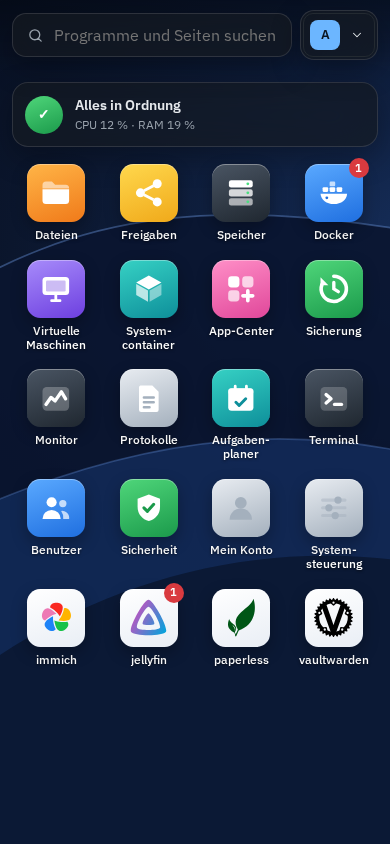
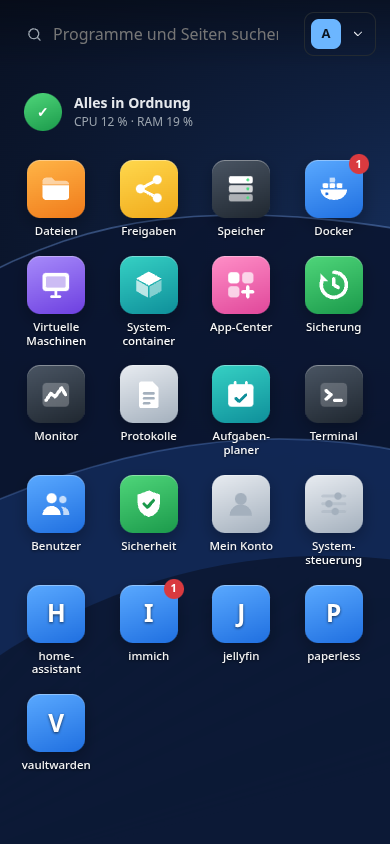
README neu im Apple-Stil: bewegtes Titelbild, Überschriften als Bilder, Bild/Text im Wechsel, Funktionen eingeklappt; Bilder vom Stand 0.70

diff --git a/README.md b/README.md
@@ -1,50 +1,89 @@
-<p align="center">
-  <picture>
-    <source media="(prefers-color-scheme: dark)" srcset="docs/brand/titanos-wordmark-dark-bg.svg">
-    <img src="docs/brand/titanos-wordmark-light-bg.svg" alt="TitanOS" width="420">
-  </picture>
-</p>
-
-<p align="center"><strong>Deine Daten. Deine Anwendungen. Dein Arbeitsplatz.</strong><br>Ein NAS-Betriebssystem für den eigenen Server – vom USB-Stick gestartet, im RAM betrieben, im Browser verwaltet.</p>
+<p align="center"><img src="docs/readme/hero.svg" alt="TitanOS – Deine Daten. Deine Apps. Dein Server." width="100%"></p>
 
 <p align="center">
-  <a href="https://github.com/ra5on/TitanOS/releases/latest"><img src="docs/brand/download-stable.svg" alt="Aktuelle TitanOS-Version herunterladen" width="350" height="54"></a><br>
-  <sub>Stick-ZIP, Prüfsummen und Signaturen der jeweils aktuellen Stable-Version.</sub>
+  <a href="https://github.com/ra5on/TitanOS/releases/latest"><img src="docs/brand/download-stable.svg" alt="Aktuelle TitanOS-Version herunterladen" width="350" height="54"></a>
 </p>
 
 <p align="center">
   <a href="#installation">Installation</a> ·
-  <a href="#funktionen">Alle Funktionen</a> ·
+  <a href="#funktionen">Funktionen</a> ·
   <a href="#dokumentation">Dokumentation</a> ·
   <a href="LICENSE.md">Fair Source</a>
 </p>
 
-[![TitanOS im Desktop-Modus: Arbeitsplatz mit Programmsymbolen, Docker-Apps, Widgets, Leisten oben und Dock](docs/screenshots/current/arbeitsplatz.png)](docs/screenshots/current/arbeitsplatz.png)
+<br>
 
-## Ein Server für Dateien, Apps und virtuelle Maschinen
+<p align="center">
+  <picture>
+    <source media="(prefers-color-scheme: dark)" srcset="docs/readme/h-intro-dark.svg">
+    <img src="docs/readme/h-intro-light.svg" alt="Sieht aus wie ein Desktop. Ist ein ganzer Server." width="760">
+  </picture>
+</p>
 
-TitanOS macht aus einem x86-64-PC einen zentralen Speicher und Anwendungsserver. Du verwaltest RAID-Volumes, Freigaben, Docker-Apps, LXC-Systemcontainer, virtuelle Maschinen und Sicherungen in einer Weboberfläche, die wie ein Desktop arbeitet: jeder Bereich ist ein Programm im eigenen Fenster. Dazu kommen ein Dateimanager, Hardware-Monitoring, Home Assistant, ein KI-Agent mit deinem eigenen Ollama und ein optionaler MCP-Server für KI-Clients wie Claude.
+<p align="center">Fenster, Dock, Arbeitsplatz. Im Browser, auf jedem Gerät.<br>Startet vom USB-Stick. Läuft komplett im Arbeitsspeicher.</p>
 
-Den Arbeitsplatz richtest du dir selbst ein: welche Programme auf dem Desktop und im Dock liegen, welche Widgets du siehst, welcher Hintergrund und wie durchscheinend Fenster und Leisten sind. Docker-Apps wie Immich oder Jellyfin öffnen in der Fernansicht direkt im Fenster, auch von unterwegs über Cloudflare oder VPN. Jede Person hat ihren eigenen Arbeitsplatz; am Handy wird daraus ein App-Raster.
+[![TitanOS: Arbeitsplatz mit Programmen, Docker-Apps, Widgets, Menüleiste und Dock](docs/screenshots/current/arbeitsplatz.png)](docs/screenshots/current/arbeitsplatz.png)
 
-Das System basiert auf **Debian 13**, startet per UEFI (auch 32-Bit-UEFI) oder Legacy-BIOS von einem USB-Stick und läuft aus dem Arbeitsspeicher. Nutzdaten, Container und VM-Abbilder liegen auf separaten Daten-Volumes. Die Konfiguration bleibt auf dem Stick; automatische Konfigurationssicherungen helfen beim Austausch eines ausgefallenen Sticks.
+<table>
+<tr>
+<td width="58%"><a href="docs/screenshots/current/anmeldeseite.png"><img src="docs/screenshots/current/anmeldeseite.png" alt="Anmeldung mit bewegtem Nordlicht und Kontobildern"></a></td>
+<td><sub>ANMELDUNG</sub><h3>Nordlicht inklusive.</h3>Ein bewegter Himmel. Dein Bild im Kreis. Ein Feld fürs Passwort – und du bist da.<br><br><sub>Passkey · Zwei-Faktor · Bewegung abschaltbar</sub></td>
+</tr>
+<tr>
+<td><sub>DATEIEN</sub><h3>Vertraut vom ersten Klick.</h3>Adresszeile, Befehlsleiste, Mehrfachauswahl. Suche bis in den Inhalt deiner Dokumente.<br><br><sub>SMB · NFS · WebDAV · USB</sub></td>
+<td width="58%"><a href="docs/screenshots/current/dateien.png"><img src="docs/screenshots/current/dateien.png" alt="Dateimanager mit Adresszeile, Befehlsleiste und Statuszeile"></a></td>
+</tr>
+<tr>
+<td width="58%"><a href="docs/screenshots/current/docker.png"><img src="docs/screenshots/current/docker.png" alt="Docker mit Übersicht und Apps"></a></td>
+<td><sub>APPS</sub><h3>Installiert. Läuft.</h3>Immich, Jellyfin, Home Assistant und mehr aus dem App-Store. Jede App im eigenen Fenster. Auch unterwegs.<br><br><sub>Compose · Updates · Startreihenfolge</sub></td>
+</tr>
+<tr>
+<td><sub>VIRTUELLE MASCHINEN</sub><h3>Ein Rechner im Rechner.</h3>Windows, Linux, Home Assistant OS. Bildschirm im Browser, Snapshots, durchgereichte Grafikkarte.<br><br><sub>KVM/QEMU · GPU · USB</sub></td>
+<td width="58%"><a href="docs/screenshots/current/vms.png"><img src="docs/screenshots/current/vms.png" alt="Virtuelle Maschinen"></a></td>
+</tr>
+</table>
 
-Die Bedienidee ist von Unraid inspiriert; TitanOS setzt auf klassisches Linux-Software-RAID und ist ein eigenständiges Projekt ohne Verbindung zu Lime Technology.
+<br>
 
-**Die Bilder zeigen die echte Weboberfläche mit isolierten Beispieldaten.** Es sind keine Messungen eines produktiven NAS und keine Design-Mockups; das Bild innerhalb der Fernansicht ist ein nachgebildeter Teststrom, keine echte App. Ein Klick öffnet die volle Auflösung. [Aufnahmestand und Erstellung](docs/screenshots/README.md).
+<p align="center">
+  <picture>
+    <source media="(prefers-color-scheme: dark)" srcset="docs/readme/h-alles-dark.svg">
+    <img src="docs/readme/h-alles-light.svg" alt="Alles drin. Auch das, was man nicht sieht." width="760">
+  </picture>
+</p>
+
+<table>
+<tr>
+<td width="33%"><b>Speicher</b><br>RAID 0, 1, 5, 6, 10. Btrfs-Spiegel. SSD-Cache. Verschlüsselung.</td>
+<td width="33%"><b>Sicherheit</b><br>Signierte Updates mit Rückfall. Firewall. Zwei-Faktor. Passkeys.</td>
+<td width="33%"><b>KI-Agent</b><br>Dein eigenes Ollama. Feste Rechte. MCP für Claude.</td>
+</tr>
+<tr>
+<td><b>Sicherung</b><br>Versioniert. Auf USB, SMB oder ein zweites NAS. Mit Prüfung.</td>
+<td><b>Fernzugriff</b><br>Tailscale, NetBird, WireGuard. Let's Encrypt.</td>
+<td><b>Handy</b><br>App-Raster. Jedes Programm im Vollbild.</td>
+</tr>
+</table>
+
+<p align="center"><sub>Alle Bilder zeigen die echte Oberfläche mit Beispieldaten. Keine Mockups. <a href="docs/screenshots/README.md">Aufnahmestand</a>.</sub></p>
+
+TitanOS basiert auf **Debian 13** und startet per UEFI, 32-Bit-UEFI oder Legacy-BIOS von einem USB-Stick. Daten, Apps und VMs liegen auf eigenen Volumes, die Konfiguration bleibt auf dem Stick. Die Bedienidee ist von Unraid inspiriert. TitanOS setzt auf klassisches Linux-Software-RAID und ist ein eigenständiges Projekt ohne Verbindung zu Lime Technology.
 
 ## Funktionen
 
-### Arbeitsplatz, Fenster und Dock
+Alles im Einzelnen – zum Aufklappen.
+
+<details>
+<summary><b>Arbeitsplatz, Fenster und Dock</b></summary>
 
 - **Jeder Bereich ein Programm:** Dateien, Freigaben, Speicher, Docker, Virtuelle Maschinen, Systemcontainer, App-Center, Sicherung, KI-Agent, Monitor, Protokolle, Aufgabenplaner, Terminal, Benutzer, Sicherheit, Mein Konto und Systemsteuerung öffnen als eigene Fenster. Jedes Fenster hat seine eigene, einklappbare Seitenleiste mit den Seiten und Einstellungen des Programms, die Titelleiste nennt Programm und Seite, die Aktionen stehen in einer Werkzeugleiste darunter.
 - **Fenster wie am PC:** frei verschieben, an allen Kanten und Ecken vergrößern, an den Rand ziehen für die halbe Seite, nach oben für Vollbild, in die Ecke für ein Viertel – mit Vorschau. Knöpfe rechts: in eigenem Tab öffnen, minimieren, maximieren, schließen. Fensterwechsler und Tastenkürzel (Alt + Q, Alt + Pfeile, Alt + W, Strg + Leertaste). Die Browser-Adresse zeigt das Fenster vorn, Lesezeichen öffnen das passende Programm. Fenster-Anordnungen lassen sich speichern.
 - **Arbeitsplatz:** Programmsymbole frei auf einem unsichtbaren Raster, „Automatisch anordnen“, drei Größen, Ordner, Abzeichen für Updates, Warnungen und „läuft/gestoppt“. Die Symbole behalten ihre Plätze, auch wenn das Browserfenster kleiner und wieder größer wird. Rechtsklick-Menüs auf Symbole, Arbeitsplatz, Widgets, Leisten und Dock.
 - **Widgets** frei platzierbar und in der Größe änderbar: Zustand, CPU/RAM, Netzwerk, Volumes, Docker-Apps, VMs, Sicherungen, Temperaturen, Uhr, Home Assistant, Aufgaben; einzeln entfernen oder alle ausblenden. Sie lesen nur, was die Oberfläche ohnehin abfragt, und wecken keine Platten.
 - **Hauptmenü** oben links mit Suche über Programme und ihre Seiten, Filtern (TitanOS, Docker-Apps, VMs, Zuletzt) und Konto, Systemsteuerung, Sperren, Ein/Aus. Programme aus dem Menü auf den Arbeitsplatz oder ins Dock ziehen.
-- **Dock** (ab Werk an): angeheftete Programme und offene Fenster, Vergrößern beim Überfahren, umsortieren per Ziehen; Größe, Deckkraft, Vergrößern und Position (unten, links, rechts) im Rechtsklick oder unter Systemsteuerung › Darstellung › Dock mit Vorschau.
+- **Dock** (ab Werk an): angeheftete Programme und offene Fenster, Vergrößern beim Überfahren, umsortieren per Ziehen; Größe, Deckkraft, Vergrößern, Position (unten, links, rechts) und Umrandung im Rechtsklick oder unter Systemsteuerung › Darstellung › Dock mit Vorschau.
 - **Leisten oben:** offene Fenster, im Cluster der Umschalter zwischen den Nodes, Auslastung, Aufgaben, Mitteilungs-Center und Konto; Größe Klein/Mittel/Groß.
-- **Sperrbildschirm und Anmeldung:** Sperren im Menü oder automatisch nach einstellbarer Zeit; Entsperren mit Passwort (und 2FA) oder Passkey. Die Anmeldeseite zeigt Uhr und Glaskarte über dem Hintergrund des Arbeitsplatzes.
+- **Sperrbildschirm und Anmeldung:** Sperren im Menü oder automatisch nach einstellbarer Zeit; Entsperren mit Passwort (und 2FA) oder Passkey. Die Anmeldeseite zeigt das bewegte Nordlicht, Kontobilder (eigenes Foto oder mitgeliefertes Bild) und auf Wunsch einen Übergang in den Arbeitsplatz.
 - **KI-Agent** als eigenes Programm mit Chatfenster und eigenen Einstellungen, dazu eine Helfer-Blase, deren Frage mit dem Fenster vorn beginnt.
 - **Dateien hineinziehen:** Dateien vom PC auf den Arbeitsplatz ziehen öffnet „Dateien“ und lädt sie in den offenen Ordner hoch.
 - **Am Handy:** Startbildschirm mit Suche und App-Raster; jedes Programm und jede Docker-App öffnet im Vollbild mit „Zurück“. Ränder für Notch und Home-Leiste, keine vergrößernden Eingabefelder in Safari.
@@ -54,7 +93,10 @@ Die Bedienidee ist von Unraid inspiriert; TitanOS setzt auf klassisches Linux-So
 
 [Dock bearbeiten](docs/screenshots/current/dock-bearbeiten.png) · [Beschreibung des Desktop-Modus](docs/DESKTOP.md) · [Sperrbildschirm](docs/SESSION-LOCK.md)
 
-### Speicher und Laufwerke
+</details>
+
+<details>
+<summary><b>Speicher und Laufwerke</b></summary>
 
 - **Klassisches RAID:** mdadm mit RAID 0, 1, 5, 6 und 10; Dateisysteme ext4 und XFS. Volumes anlegen, Zustand und Belegung sehen, Mitglieder ersetzen und Wiederaufbau oder Konsistenzprüfung verfolgen.
 - **Btrfs-Volumes:** eine Platte, Spiegel (RAID 1) oder drei Kopien (RAID1C3), auch aus Platten unterschiedlicher Größe. Platten später hinzufügen oder entfernen und das Profil im laufenden Betrieb ändern. Schreibgeschützte Snapshots, Scrub und Plattenersatz. Fehlt beim Start ein Mitglied, wartet TitanOS 60 Sekunden auf langsam anlaufende Platten, bevor das Volume ohne Redundanz eingebunden und als solches gemeldet wird. Snapshot-Zeitpläne mit Aufbewahrung sowie Wiederherstellung ganzer Snapshots, Ordner oder einzelner Dateien.
@@ -67,7 +109,10 @@ Die Bedienidee ist von Unraid inspiriert; TitanOS setzt auf klassisches Linux-So
 
 [Btrfs](docs/BTRFS.md) · [Übernahme, Erweiterung und Speicheranalyse](docs/WORKFLOWS.md)
 
-### Freigaben und Konten
+</details>
+
+<details>
+<summary><b>Freigaben und Konten</b></summary>
 
 - **SMB:** Rechte je Konto, lesender Gastzugriff, Papierkorb mit Aufbewahrung und Time-Machine-Ziele. **NFS:** getrennt von SMB abschalten, nur lesend oder lesend/schreibend für ausgewählte Clients freigeben.
 - **WebDAV (optional):** Freigaben als Netzlaufwerk über HTTPS, etwa in der Dateien-App des iPhones, im Finder oder im Windows-Explorer, auch von unterwegs. Eigenes WebDAV-Passwort je Konto, dieselben Rechte wie bei SMB. [Einzelheiten](docs/WEBDAV.md).
@@ -76,8 +121,12 @@ Die Bedienidee ist von Unraid inspiriert; TitanOS setzt auf klassisches Linux-So
 - **Besitzer, Administratoren und Benutzer:** das erste Besitzerkonto hat einen frei gewählten Namen. Benutzer sehen ihre freigegebenen Dateien; Systemverwaltung, Docker und VMs bleiben den Verwaltungsrollen vorbehalten.
 - **Anmeldung und Sicherheit:** Passwortschutz gegen Durchprobieren, TOTP mit Wiederherstellungscodes, Übersicht angemeldeter Geräte und Abmelden einzelner oder aller anderen Sitzungen. Konten lassen sich sperren, ohne sie zu löschen; das wirkt auch für SMB, SSH und API-Tokens. [Konten sperren](docs/ACCOUNT-LOCK.md).
 
-### Dateien direkt im Browser verwalten
+</details>
 
+<details>
+<summary><b>Dateien direkt im Browser verwalten</b></summary>
+
+- **Wie der Explorer:** Adresszeile mit Pfad und Suche, Befehlsleiste, die sich bei schmalen Fenstern selbst zusammenschiebt, ein Klick wählt eine Datei, Häkchen erst bei Mehrfachauswahl, Statuszeile mit Auswahl und freiem Platz.
 - **Persönlicher Arbeitsplatz:** Ordnerbaum, benannte und sortierbare Favoriten, Ansichten und Sortierung je Ordner, zwei Ordner nebeneinander und eine Pfadeingabe in den Brotkrumen.
 - **Dateien und Ordner bearbeiten:** erstellen, hochladen, herunterladen, als ZIP laden, kopieren, verschieben, umbenennen und löschen. Ziehen zwischen Ansichten, Übertragungsvorschau und Entscheidungen bei Namenskonflikten.
 - **Von Link herunterladen:** eine HTTP(S)-Adresse, etwa ein ISO-Abbild, lädt das NAS selbst als Hintergrundauftrag in den geöffneten Ordner: optionale SHA-256-Prüfung, Fortsetzen nach Verbindungsabbruch, nie Überschreiben. Benutzerkonten erreichen dabei nur Adressen im Internet.
@@ -93,8 +142,12 @@ Die Bedienidee ist von Unraid inspiriert; TitanOS setzt auf klassisches Linux-So
 
 [Texteditor und USB-Dateisysteme](docs/FILE-EDITOR.md) · [Vorschaubilder und Volltextsuche](docs/FILE-SEARCH.md) · [Partitionseditor](docs/PARTITIONS.md) · [Von Link herunterladen](docs/FILE-DOWNLOADS.md) · [Kopieren und Verschieben](docs/FILE-COPY.md) · [RAM und Uploads](docs/MEMORY.md) · [Lange Windows-SMB-Pfade](docs/WINDOWS-SMB.md)
 
-### Docker und App-Store
+</details>
 
+<details>
+<summary><b>Docker und App-Store</b></summary>
+
+- **Start nach dem Hochfahren:** Apps und VMs starten erst, wenn Volumes und Freigaben bereit sind, auf Wunsch in fester Reihenfolge mit Wartezeit je Eintrag.
 - **Container und Compose-Stacks:** Images und Tags einzeln je Dienst bearbeiten, Store-Vorgaben und Digests erhalten; Start, Stopp, Neustart, Logs und Browserkonsole; CPU, RAM, Ports und geprüfte Updatezustände im Blick. Suche, Filter sowie anpassbare Reihenfolge und Ansicht.
 - **Kompakte Kacheln:** jeder Container als gleich breite Kachel mit App-Symbol, CPU und RAM, so viele nebeneinander wie Platz ist; der farbige Streifen zeigt, ob er läuft. Ein Klick aufs Symbol öffnet das Menü des Containers.
 - **Docker-Apps im Fenster (Fernansicht):** Jede App mit Weboberfläche ist ein eigenes Programm. Ihr Fenster zeigt die App in der Fernansicht: TitanOS öffnet sie auf dem NAS in einem abgeschotteten Browser-Container und überträgt Bild und Ton über die TitanOS-Adresse (WebSocket, H.264/Opus) – im Heimnetz, per VPN, über einen Cloudflare-Tunnel und am Handy. Anmeldungen in den Apps bleiben je Konto und App erhalten; Lautstärke, Qualität (30/60 Bilder je Sekunde), Zwischenablage, Hoch- und Herunterladen im Fenster; GPU-Kodierung per VA-API (Intel/AMD) oder NVENC (NVIDIA-Plugin), sonst Prozessor. Das Abbild der Fernansicht ist eine eigene signierte Release-Datei (Download etwa 320 MB bei der ersten Ansicht). Wer welche App nutzen darf, steht unter Benutzer › Programme. „In eigenem Tab öffnen“ bleibt als Ausweg. [Einzelheiten und Grenzen](docs/FERNANSICHT.md).
@@ -112,7 +165,10 @@ Die Bedienidee ist von Unraid inspiriert; TitanOS setzt auf klassisches Linux-So
 
 [Fernansicht](docs/FERNANSICHT.md) · [App-Fenster, Rechte und Zertifizierungsstelle](docs/APP-WINDOWS.md) · [App-Links](docs/APP-LINKS.md) · [HTTPS-Namen für Apps](docs/APP-PROXY.md) · [Immich und Ollama-Vorlagen](docs/NATIVE-APPS.md)
 
-### Virtuelle Maschinen
+</details>
+
+<details>
+<summary><b>Virtuelle Maschinen</b></summary>
 
 - **KVM/QEMU und libvirt:** VMs anlegen, starten, sauber herunterfahren und automatisch starten. UEFI als Standard, optional Legacy-BIOS für passende Gäste; Windows 11 mit TPM 2.0 und Secure Boot im Gast.
 - **Ressourcen und Datenträger:** CPU-Kerne zuweisen oder reservieren, qcow2/raw und vorhandene Abbilder nutzen, physische Platten einbinden und ausgeschaltete VMs mit neuen Kennungen klonen.
@@ -128,13 +184,19 @@ Die Bedienidee ist von Unraid inspiriert; TitanOS setzt auf klassisches Linux-So
 
 Die VM-Einrichtung zeigt kompakte Kacheln mit einer gemeinsamen Zusammenfassung. Die Heimnetz-Bridge `br0` wird bei der Ersteinrichtung automatisch vorbereitet und nach Verbindungsbestätigung dauerhaft übernommen; bestehende NAS aktivieren sie direkt aus der VM-Einrichtung.
 
-### LXC-Systemcontainer
+</details>
+
+<details>
+<summary><b>LXC-Systemcontainer</b></summary>
 
 - **Ganze Linux-Systeme ohne VM:** Container aus den Abbildern von images.linuxcontainers.org (Debian, Ubuntu, Alpine und weitere) anlegen, starten, herunterfahren und automatisch starten. Das Root-Dateisystem liegt auf einem Daten-Volume.
 - **Sicher voreingestellt:** unprivilegiert mit eigenen IDs; privilegierte Container nur ausdrücklich und mit Warnung. CPU- und RAM-Grenzen, Netzwerk an den Bridges des NAS mit fester MAC-Adresse, NAS-Ordner wahlweise nur lesend.
 - **Konsole und Snapshots:** Shell und Textkonsole im Terminal-Fenster; auf Btrfs-Volumes Snapshots anlegen und zurücksetzen. [Einzelheiten und Grenzen](docs/LXC.md).
 
-### Sicherungen und Wiederherstellung
+</details>
+
+<details>
+<summary><b>Sicherungen und Wiederherstellung</b></summary>
 
 - **Versionierte Backups mit restic:** Freigaben, Volumes oder einzelne Ordner verschlüsselt auf ein anderes Volume, ein USB-Laufwerk, eine SMB-Freigabe, per SFTP, zu S3 oder zu einem restic-REST-Server sichern. Zeitpläne (auch n-ter Wochentag, mehrere Uhrzeiten), Aufbewahrung als eine Zahl oder „bis das Ziel voll ist“, Zielprüfung und Fortschritt.
 - **Wiederherstellung prüfen:** Archivprüfungen und echte Wiederherstellungsproben; ganze Stände oder einzelne Dateien als neue Kopie in einen eigenen Ordner zurückholen.
@@ -146,7 +208,10 @@ Die VM-Einrichtung zeigt kompakte Kacheln mit einer gemeinsamen Zusammenfassung.
 
 [Backup- und Wiederherstellungsabläufe](docs/WORKFLOWS.md) · [USB-Kopie](docs/USB-COPY-BACKUPS.md) · [SMB-Kopie](docs/SMB-COPY-BACKUPS.md)
 
-### Wartung, Monitoring und Diagnose
+</details>
+
+<details>
+<summary><b>Wartung, Monitoring und Diagnose</b></summary>
 
 - **Eigene Skripte:** Aufgabenplaner › Skripte führt eigene Skripte als root aus – per Knopf mit Live-Ausgabe, nach Zeitplan (auch Cron), einmal beim Start nach dem Einbinden der Volumes oder beim Herunterfahren vor dem Beenden der Apps. Sie liegen auf einem Daten-Volume, die letzten zehn Läufe bleiben mit Ausgabe erhalten, fehlgeschlagene automatische Läufe melden sich. Nur für Besitzer/Administratoren, nicht über API-Tokens oder MCP. [Einzelheiten](docs/SCRIPTS.md)
 - **Wartungspläne:** gemeinsame Zeitfenster mit Zeitzone, auf Wunsch alle N Stunden; RAID-Prüfungen, Btrfs-Scrub, SMART-Kurz- und Langtests (beim Anlegen eines Volumes vorausgewählt), Backup-Prüfungen, Wiederherstellungsproben und Snapshot-Aufbewahrung. Abhängigkeiten, optionaler Backup-Vorrang und sichtbare Wartegründe.
@@ -161,7 +226,10 @@ Die VM-Einrichtung zeigt kompakte Kacheln mit einer gemeinsamen Zusammenfassung.
 
 [Monitoring](docs/MONITORING.md) · [Wartung und Aufträge](docs/WORKFLOWS.md) · [RAM-Verwaltung](docs/MEMORY.md)
 
-### GPU, iGPU, NPU und Plugins
+</details>
+
+<details>
+<summary><b>GPU, iGPU, NPU und Plugins</b></summary>
 
 - **Hardware prüfen:** Monitor › Hardware prüfen fasst CPU, RAM, Controller, Netzwerk, Grafik, Sensoren und Treiberstand zusammen, nennt Geräte ohne Treiber mit Grund (etwa „behoben ab Linux 7.3“ und ob der Kernel „Neu“ es schon hat) und speichert auf Wunsch einen anonymisierten Schnappschuss für einen Fehlerbericht.
 - **Stabile Hardwarebasis:** Intel-/AMD-CPU-Microcode für frühes Laden, gezielte Netzwerk-/HBA-Firmware und geprüfte Intel-i915/xe-/NPU- sowie AMD-Grafikmodule und Firmware. Für Intel-Grafik von Skylake bis Tiger/Rocket Lake lässt sich unter Einstellungen › Hardware HuC (Low-Power-Encodierung) bzw. GuC-Submission mit HuC laden; ab Werk gilt der Kernelstandard, wirksam nach einem Neustart, nicht auf echter Gen9–11-Hardware geprüft. [Umfang und Hardware-Prüfgrenzen](docs/HARDWARE-COMPATIBILITY.md).
@@ -175,7 +243,10 @@ Die VM-Einrichtung zeigt kompakte Kacheln mit einer gemeinsamen Zusammenfassung.
 
 [Plugins und Gerätezuordnung](docs/PLUGINS.md) · [NVIDIA](docs/NVIDIA.md) · [Lokaler NVIDIA-Bau](docs/NVIDIA-LOCAL-BUILD.md)
 
-### Home Assistant und MQTT
+</details>
+
+<details>
+<summary><b>Home Assistant und MQTT</b></summary>
 
 - **NAS-Werte per MQTT-Discovery:** System, Volumes/RAID, Laufwerke, Container, Stacks, VMs, Netzwerk, Backups, Wartung, Kapazitätsprognosen und USV sowie GPU, iGPU und NPU.
 - **Gezielt veröffentlichen:** Gruppen und einzelne Geräte auswählen. Stabile Kennungen, Verfügbarkeit, Ablaufzeiten und Bereinigung entfernter Entitäten; keine zusätzlichen SMART-Abfragen zum Aufwecken schlafender Platten.
@@ -186,19 +257,20 @@ Die VM-Einrichtung zeigt kompakte Kacheln mit einer gemeinsamen Zusammenfassung.
 
 [Home-Assistant-Anleitung, Einrichtung und Prüfgrenzen](docs/HOME-ASSISTANT.md)
 
-### API und Automatisierung
+</details>
+
+<details>
+<summary><b>API und Automatisierung</b></summary>
 
 - **Persönliche API-Zugänge:** benannte, widerrufbare Tokens mit bewusst gewählten Bereichen und aktuellen Konto-/Share-Rechten. Standard nur lesend, Geheimnis einmalig sichtbar, ausschließlich sein Hash wird gespeichert.
 - **OpenAPI und CLI:** dokumentierter API-Vertrag und statisches `titanosctl` für Status, Dateien sowie erlaubte Docker-/VM-Aktionen. [Verwendung](docs/PUBLIC-API.md).
 - **KI-Agent (optional, ab Werk aus):** Aufträge in normaler Sprache, die er mit den Werkzeugen von TitanOS in mehreren Schritten erledigt – mit deinem Ollama (z. B. gpt-oss), Denkstufen des Modells, Projekten und Chats, Gedächtnis und Skills, Websuche, Word-Dokumenten, geplanten Aufträgen, Eigeninitiative bei Meldungen und Home Assistant samt Assist. Je Werkzeug, Bereich und Ordner einstellbar: ohne Nachfrage, mit Knopf im Chat oder verboten. Dateien aus deinen Freigaben direkt in den Chat; Oberfläche wie die großen Chat-Apps mit eigenem Menü, im Desktop-Modus als eigenes Programm im Fenster, auf dem Handy als eigene App (auch auf dem Home-Bildschirm); Mitteilungen nur, solange du den Chat nicht schon offen hast; eigener Ordner je Konto in der Freigabe „KI-Agent“ mit Chats, Projekten, mitgeliefertem Wissen und Notizen; Erinnerungen und frei planbare Aufträge (einmalig, Intervalle, Wochentage, Cron) samt Morgenbericht; Spracheingabe über Whisper, Bilder verstehen und Vorlesen; Snapshot vor riskanten Änderungen; Projekte mit anderen Konten teilen; im Cluster nutzt ein Knoten auf Freigabe das Modell des Admin-Knotens. Eigener Auftritt mit Glas und Polarlicht, Wischgesten, Vorschläge je nach Lage, alle Einstellungen je Konto; Eigeninitiative mit nächtlichem Nachdenken über die Chats, Vorschlägen zum Annehmen, Wache, Vorausschau, gelernten Skills, Persönlichkeit und Suchorten – Hintergrundarbeit weckt keine schlafende Platte. [Einzelheiten](docs/AGENT.md)
 - **MCP-Server (optional, ab Werk aus):** Claude Desktop, Claude Code und andere MCP-Clients arbeiten mit den Rechten eines persönlichen Tokens am NAS: Zustand, Speicher, Freigaben, Dateien und Dokumente (Word, Excel, PDF), Docker, VMs, Sicherungen, Firewall-Regeln, Konten, Plugins, Updates, Neustart/Ausschalten, freigegebene Home-Assistant-Geräte und das Handbuch. Verwaltungsaktionen brauchen den Token-Bereich `system:write` (nur Besitzer/Administratoren). Jedes Werkzeug lässt sich einzeln ausschalten; gefährliche und zerstörende Aufrufe sind ab Werk gesperrt und laufen erst nach ausdrücklicher Freischaltung und mit Bestätigung des Clients. Geheimnisse, Passwörter, Konsolen und Netzwerkbestätigung bleiben außen vor; jeder Aufruf steht im Aktivitätsprotokoll. Die eigene MCP-Seite unter Einstellungen zeigt allen Konten Zustand, Endpunkt und Verbindungsanleitung samt Token-Knopf; Schalter, Werkzeuge und letzte Aufrufe sehen nur Besitzer und Administratoren. [Einrichtung](docs/MCP.md).
 
-<p>
-  <a href="docs/screenshots/current/ki-agent-mobil.png"><img src="docs/screenshots/current/ki-agent-mobil.png" alt="KI-Agent auf dem Smartphone als eigene App: Polarlicht hinter Glas, Begrüßung, Projekt-Chips, Vorschläge mit Grund und Eingabefeld" width="260"></a>
-  <a href="docs/screenshots/current/ki-agent-menue-mobil.png"><img src="docs/screenshots/current/ki-agent-menue-mobil.png" alt="Menü des KI-Agenten auf dem Smartphone mit Projekten, angehefteten Chats und „Zurück zu TitanOS“" width="260"></a>
-</p>
+</details>
 
-### Netzwerk, Energie und Systemzugang
+<details>
+<summary><b>Netzwerk, Energie und Systemzugang</b></summary>
 
 - **Netzwerk:** mehrere benannte Netze über Anschlüsse, Bonds und VLANs; IPv4-DHCP/feste Adressen, IPv6-SLAAC/DHCPv6/feste Adressen, DNS und Routen. Bevorzugter Verwaltungszugang, zweiminütiger Probelauf und authentifizierte lokale Wiederherstellung. Router und DHCP bleiben extern.
 - **Tailscale als Plugin:** Fernzugriff, Subnet-Routing und Exit-Node-Betrieb in beiden Rollen; Routen- und DNS-Einstellungen mit Rückfall. Unter dem Tailnet-Namen (`https://<name>.<tailnet>.ts.net`) liefert TitanOS ein gültiges Zertifikat aus, sobald HTTPS im Tailnet an ist (Ein-Klick-Freischaltung aus den Einstellungen). 
@@ -215,17 +287,20 @@ Die VM-Einrichtung zeigt kompakte Kacheln mit einer gemeinsamen Zusammenfassung.
 
 [Netzwerk](docs/NETWORKING.md) · [Firewall](docs/FIREWALL.md) · [Let's Encrypt](docs/LETSENCRYPT.md) · [Dynamisches DNS](docs/DDNS.md) · [WireGuard](docs/WIREGUARD.md) · [Web Push](docs/WEB-PUSH.md) · [Tailscale](docs/TAILSCALE.md) · [NetBird](docs/NETBIRD.md) · [Ein-/Ausschalter](docs/POWER-BUTTON.md)
 
-### Systemsteuerung, Darstellung und Handy
+</details>
+
+<details>
+<summary><b>Systemsteuerung, Darstellung und Handy</b></summary>
 
 - **Systemsteuerung:** Startseite „Alle Einstellungen“ mit Suche und gleich großen Bereichen, Seitenleiste nach System, Netzwerk sowie Konten und Diensten; unten „Zuletzt geändert“. Einstellungen als Zeilen „Bezeichnung links, Wert rechts“.
-- **Darstellung einfach und global:** Hell, Dunkel oder Automatisch, dunkle Varianten Graphit, Schwarz, Mitternacht oder Eigenes, Akzentfarbe und fünf Schieberegler – Transparenz, Glaseffekt, Ecken, Schriftgröße, Farbstärke. Sie wirken sofort überall (Arbeitsplatz, Fenster, Handy) und speichern sich selbst; exportieren und importieren. Sechs eigene Hintergründe (hell und dunkel) oder ein eigenes Bild, auf Wunsch langsam bewegt und nach Tageszeit gefärbt; „Bewegung reduzieren“ des Systems wird beachtet. Dazu ein eigenes App-Symbol für den Home-Bildschirm.
+- **Darstellung einfach und global:** Hell, Dunkel oder Automatisch, dunkle Varianten Graphit, Schwarz, Mitternacht oder Eigenes, Akzentfarbe und Regler – Glas von Klar bis Getönt, Ecken, Schriftgröße, Farbstärke. Sie wirken sofort überall (Arbeitsplatz, Fenster, Handy) und speichern sich selbst; exportieren und importieren. Sechs eigene Hintergründe (hell und dunkel) oder ein eigenes Bild, auf Wunsch langsam bewegt und nach Tageszeit gefärbt; „Bewegung reduzieren“ des Systems wird beachtet. Dazu ein eigenes App-Symbol für den Home-Bildschirm.
 - **Anmeldeseite gestalten:** Besitzer und Administratoren legen für das ganze NAS Akzent, Hintergrund (der des Arbeitsplatzes, ein Galerie-Motiv oder ein eigenes Bild), Überschrift und Begrüßung (Deutsch/Englisch), Logo, NAS-Namen und Uhr fest – mit Vorschau und Kontrastwarnung (siehe `docs/LOGIN-APPEARANCE.md`).
 - **Deutsch und Englisch**, lokale Schriftdateien, Tastatur- und Touch-Bedienung.
 - **Dienste nach Bedarf:** Docker, VMs und LXC lassen sich unter Systemsteuerung › Dienste ausschalten; ihr Programm verschwindet, die Daten bleiben.
 
 [![Systemsteuerung › Alle Einstellungen mit Suche und Bereichen nach System, Netzwerk sowie Konten und Diensten](docs/screenshots/current/systemsteuerung.png)](docs/screenshots/current/systemsteuerung.png)
 
-[![Anmeldeseite mit Uhr und Glaskarte](docs/screenshots/current/anmeldeseite.png)](docs/screenshots/current/anmeldeseite.png)
+[![Anmeldeseite mit bewegtem Nordlicht und Kontobildern](docs/screenshots/current/anmeldeseite.png)](docs/screenshots/current/anmeldeseite.png)
 
 [Systemsteuerung › Darstellung mit fünf Schiebereglern](docs/screenshots/current/darstellung.png) · [Anmeldeseite gestalten](docs/LOGIN-APPEARANCE.md)
 
@@ -234,7 +309,10 @@ Die VM-Einrichtung zeigt kompakte Kacheln mit einer gemeinsamen Zusammenfassung.
   <a href="docs/screenshots/current/fernansicht-mobil.png"><img src="docs/screenshots/current/fernansicht-mobil.png" alt="Docker-App in der Fernansicht am Smartphone im Vollbild mit Lautstärke und Tastatur (Bild nachgebildet)" width="260"></a>
 </p>
 
-### Updates mit geprüftem Rückfall
+</details>
+
+<details>
+<summary><b>Updates mit geprüftem Rückfall</b></summary>
 
 TitanOS nutzt einen **Stable-Kanal**. Die Weboberfläche prüft und installiert Updates manuell oder nach Zeitplan; nach einer Verwaltungsanmeldung kann eine Prüfung im Hintergrund erfolgen.
 
@@ -245,6 +323,8 @@ TitanOS nutzt einen **Stable-Kanal**. Die Weboberfläche prüft und installiert 
 - **Signatur und Integrität sind Pflicht:** nur gültig signierte Manifeste und passende Datei-Prüfsummen werden angenommen. Laufende relevante Daten- und Wartungsvorgänge blockieren die Installation bis zu ihrem Abschluss.
 
 [App-Updates](docs/APP-UPDATES.md) · [Release-Dateien, Signaturen und Prüfung](docs/RELEASING.md)
+
+</details>
 
 ## Voraussetzungen und aktuelle Grenzen
 
@@ -262,6 +342,23 @@ RAID ersetzt kein Backup. Unterstützung und Messwerte hängen von Kernel, Firmw
 ARM und ZFS sind nicht enthalten. Der Bootloader wird bei Updates nicht automatisch ersetzt; volle Systemupdates aus einer hochgeladenen Datei sind nicht umgesetzt. Die Firewall ist ab Werk aus und filtert eingeschaltet nur, was das NAS selbst und veröffentlichte App-Ports erreicht, nicht VMs, LXC-Container und Apps mit eigener LAN-Adresse; [Firewall](docs/FIREWALL.md).
 
 ## Installation
+
+<p align="center">
+  <picture>
+    <source media="(prefers-color-scheme: dark)" srcset="docs/readme/h-start-dark.svg">
+    <img src="docs/readme/h-start-light.svg" alt="In drei Schritten startklar." width="620">
+  </picture>
+</p>
+
+<table>
+<tr>
+<td align="center" width="33%"><b>1</b><br>ZIP laden und Signatur prüfen</td>
+<td align="center" width="33%"><b>2</b><br>Auf einen FAT32-Stick „TITANOS“ entpacken</td>
+<td align="center" width="33%"><b>3</b><br>Starten und im Browser öffnen</td>
+</tr>
+</table>
+
+Im Detail:
 
 1. Auf der [aktuellen Stable-Release-Seite](https://github.com/ra5on/TitanOS/releases/latest) das Stick-ZIP `titanos-<version>.zip` sowie dessen `.minisig` und `.sha256` herunterladen. Die Signatur mit [minisign](https://jedisct1.github.io/minisign/) und einem vertrauenswürdig bezogenen [Release-Schlüssel](build/mkosi.extra/usr/share/titanos/update-keys/) prüfen. [Download-Prüfung](docs/RELEASING.md#downloads-prüfen).
 2. Einen leeren USB-Stick als **FAT32** mit dem Label **`TITANOS`** formatieren. Das ZIP direkt ins Stammverzeichnis entpacken. Dort liegen anschließend `EFI`, `loader`, `titanos` und `config`.

diff --git a/docs/screenshots/README.md b/docs/screenshots/README.md
@@ -2,7 +2,7 @@
 
 `current/` enthält die aktuellen Aufnahmen für die Projekt-README und die Fachdokumente.
 
-**Aufnahmestand:** Die Bilder der README zeigen den **Desktop-Modus** im Arbeitsstand von **TitanOS 0.62.0** (Zweig `feat/0.62`, Basis 0.61.0, noch nicht eingecheckt), aufgenommen am **7. November 2026** mit Chromium (Playwright) gegen `vite dev` (Port 5272), Theme Graphit, blauer Akzent, Deutsch. Während der Aufnahme änderten andere Teilarbeiten von 0.62.0 die Oberfläche parallel; vor dem Release neu aufnehmen, wenn sich Arbeitsplatz, Fenster oder Anmeldeseite noch sichtbar ändern. Wo die Testdaten eine Version anzeigen, steht dort 0.61.0 (`releaseVersion()` in `scripts/test-ui-fixtures.mjs` nimmt den letzten Tag).
+**Aufnahmestand:** Arbeitsplatz, Anmeldeseite, Docker, Dateien, Virtuelle Maschinen, Freigaben, Speicher, Darstellung und Handy-Start zeigen **TitanOS 0.70.0** (Zweig `feat/0.70`), aufgenommen am **8. November 2026** mit `scripts/capture-readme-screenshots.mjs` (Chromium/Playwright gegen `vite dev`, Theme Graphit, blauer Akzent, Deutsch, Fenster maximiert). Die Docker-Apps (immich, jellyfin, paperless, home-assistant, vaultwarden) sind Beispieldaten des Skripts mit Buchstaben-Symbolen. Hauptmenü, Systemsteuerung, Dock bearbeiten und die Fernansicht stammen noch aus der Aufnahme von 0.62.0 (7. November 2026); ihre Oberfläche hat sich seither nur wenig geändert.
 
 Ältere Bilder in `current/` (Speicher, Freigaben, Dateien, Firewall, VM erstellen, Protokoll, Dateiaufträge, KI-Agent) zeigen die **alte Oberfläche** mit Kopfzeile (0.47.1 bzw. KI-Agent 0.51.0/0.54.0). Kopfzeile und Seitennavigation sind seit 0.62.0 entfernt; diese Bilder sind nur noch in Fachdokumenten verlinkt (VM erstellen, Protokoll) bzw. als Nachweis ihrer damaligen Prüfungen und werden in der README nicht mehr eingebunden. Die Aufnahmen des alten Dashboards und der alten Navigation sind entfernt.
 
